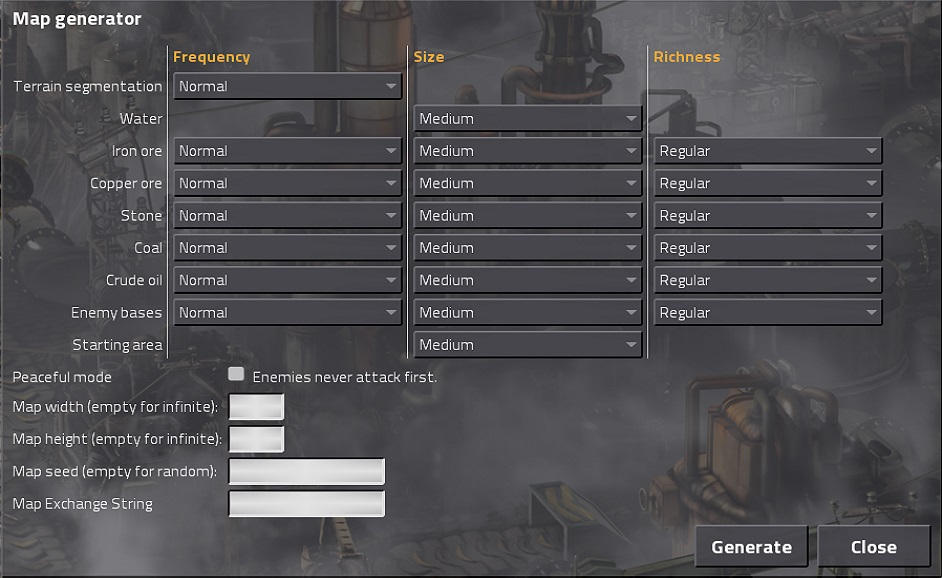
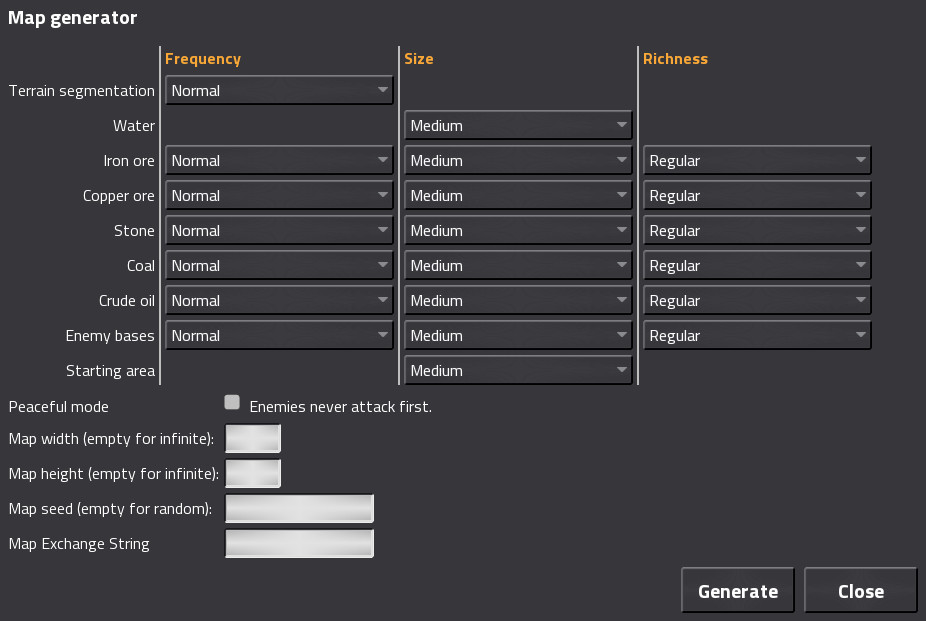
New gui pictures for page 02, re-wrote some stuff on the map generation and stuff

diff --git a/02-game-options-and-map-settings.html b/02-game-options-and-map-settings.html
@@ -3,119 +3,25 @@ layout: default
 title: Game options and map settings
 ---
 <h2>Options</h2>
-<p>Factorio has quite a few settings you can play around with to customize things how you want. Obviously there are multiple audio settings, and you can either play full screen or windowed, as well as multiple other graphical options. One of the main things you can customize though is the hotkeys, and there are a lot of them. The hotkey menu is a good thing to look at before you start playing so you know what certain buttons do and how to pull up certain windows, etc. However some of the key mappings aren't as apparent or can easily be over-looked in the hotkey menu and some of those are actually very important to enhance the game experience.</p>
+<p>Factorio has quite a few settings you can play around with to customize things how you want. There are multiple audio settings, and you can either play in a fullscreen or windowed mode. You can also customize all the hotkeys and shortcuts used in the game, its a fair idea to have a brief look over this menu before you start a game. Some of these key mappings won't quite make sense right away though, but over time you will learn how powerful some of them can be.</p>
 <div class="xtrainfo">
-  <p><a href="https://www.youtube.com/watch?v=bahM1UB7C08" target="_new">Here</a> is a quick video that goes over some of the lesser known key-bindings that are actually very useful to know</p></div>
+  <p>There is a <a href="https://www.youtube.com/watch?v=bahM1UB7C08" target="_new">tutorial</a> produced by a community member which goes over some of the more useful Hotkeys and Shortcuts</p></div>
  
-<p>Below is table of the main ones, but certainly not all of them.</p>
+<p>Below is an overview of the default keybindings in the game.</p>
 
-<table class="table1">
-  <colgroup>
-  <col width="57*">
-  </colgroup>
-  <colgroup>
-  <col width="26*">
-  </colgroup>
-  <colgroup>
-  <col width="14*">
-  <col width="110*">
-  <col width="48*">
-  </colgroup>
-  <tr>
-    <th colspan="2" width="33%"> <p>Basic</p></th>
-    <td width="6%">&nbsp;&nbsp;&nbsp;&nbsp;&nbsp;</td>
-    <th colspan="2" width="62%"> <p>Advanced</p></th>
-  </tr>
-  <tr>
-    <td width="30%"><p>Movement</p></td>
-    <td width="10%"><p><strong>W, A,  			S, D</strong></p></td>
-    <td width="6%"><p><br/>
-    </p></td>
-    <td width="43%"><p>Transfer all of an Item to Inventory</p></td>
-    <td width="19%"><p><strong>CTRL+LMB</strong></p></td>
-  </tr>
-  <tr>
-    <td width="22%"><p>Open  			Inventory</p></td>
-    <td width="10%"><p><strong>E</strong></p></td>
-    <td width="6%"><p><br/>
-    </p></td>
-    <td width="43%"><p>Fetch all Items into Inventory without opening  			entity</p></td>
-    <td width="19%"><p><strong>CTRL+LMB</strong></p></td>
-  </tr>
-  <tr>
-    <td width="22%"><p>Switch  			Weapons</p></td>
-    <td width="10%"><p><strong>Q</strong></p></td>
-    <td width="6%"><p><br/>
-    </p></td>
-    <td width="43%"><p>Transfer a Stack between Inventories</p></td>
-    <td width="19%"><p><strong>SHIFT+LMB</strong></p></td>
-  </tr>
-  <tr>
-    <td width="22%"><p>Pick up  			Items off Ground</p></td>
-    <td width="10%"><p><strong>F</strong></p></td>
-    <td width="6%"><p><br/>
-    </p></td>
-    <td width="43%"><p>Copy Selected Building Manufacturing</p></td>
-    <td width="19%"><p><strong>SHIFT+RMB</strong></p></td>
-  </tr>
-  <tr>
-    <td width="22%"><p>Rotate  			Item/Structure</p></td>
-    <td width="10%"><p><strong>R</strong></p></td>
-    <td width="6%"><p><br/>
-    </p></td>
-    <td width="43%"><p>Paste Copied Manufacturing Settings </p></td>
-    <td width="19%"><p><strong>SHIFT+LMB</strong></p></td>
-  </tr>
-  <tr>
-    <td width="22%"><p>Auto  			Target Enemies</p></td>
-    <td width="10%"><p><strong>Spacebar</strong></p></td>
-    <td width="6%"><p><br/>
-    </p></td>
-    <td width="43%"><p>Set Filter on Toolbelt</p></td>
-    <td width="19%"><p><strong>Middle  			Mouse Button</strong></p></td>
-  </tr>
-  <tr>
-    <td width="22%"><p>Shoot  			What Your Targeting</p></td>
-    <td width="10%"><p><strong>C</strong></p></td>
-    <td width="6%"><p><br/>
-    </p></td>
-    <td width="43%"><p><br/>
-    </p></td>
-    <td width="19%"><p><br/>
-    </p></td>
-  </tr>
-  <tr>
-    <td width="22%"><p>Show  			Extra Info</p></td>
-    <td width="10%"><p><strong>ALT</strong></p></td>
-    <td width="6%"><p><br/>
-    </p></td>
-    <td width="43%"><p><br/>
-    </p></td>
-    <td width="19%"><p><br/>
-    </p></td>
-  </tr>
-  <tr>
-    <td width="22%"><p>Open  			Technology Screen</p></td>
-    <td width="10%"><p><strong>T</strong></p></td>
-    <td width="6%"><p><br/>
-    </p></td>
-    <td width="43%"><p><br/>
-    </p></td>
-    <td width="19%"><p><br/>
-    </p></td>
-  </tr>
-</table>
+<div class="cont-center"><img src="img/hotkeys.jpg" width="962" height="1275" alt="Hotkeys" longdesc="img/hotkeys.jpg" /></div>
 
-<p>One last thing to note about the options menus is that you can enable experimental updates. This is actually recommended because the experimental builds are the latest ones and far more updated than the stable builds. The great thing about Factorio is even though the builds may be labeled as experimental, they rarely have any game breaking problems and are (at least in my experience) completely playable. Even if you enable this option, it will still give you the choice when a new update is out to download it or wait, so it doesn't just automatically install it without asking.</p>
+<p> There are a large amount of other options available in the game, such as graphical settings, audio configuration and other game settings.</p>
 
 <h2>Map Settings</h2>
-<p>I just want to touch on a couple of things about the Map Settings. The first thing to go over is the option to turn on <strong>Peaceful Mode</strong>. When you go to start a new game, you will be brought to the Map Settings menu where you can customize some things about the map before it generates.</p>
-<p>One of those settings is to turn on Peaceful Mode. It isn't really clear what that does initially, so I'll explain it here. Normally if you play with that setting turned off (it's off by default) then the enemies will attack you when you approach them or start firing on them, as well as send raiding parties to your base when your pollution hits their Spawners. However with Peaceful Mode on, they are entirely docile until you actually attack them. They will never attack your base without you going and attacking them first. Even if you run over and stand in a group of them, they won't attack you until you fire at them.</p>
+<p>When you go to start a new game, you will be brought to the Map generator menu, where you can customize different settings and parameters about the map before you start.</p>
+<p>One useful setting for beggining players is the <strong>Peaceful mode</strong> checkbox. The default setting is off, meaning the enemies in the game will aggresively attack your factory based on how much pollution you produce. When peaceful mode is enabled, they will not directly seek out to attack you, and will only become hostile if you attack them first. This setting is useful for learning the game for the first time, as it reduces the chance of a devastating attack while you're still learning the game</p>
 
 <div class="cont-center"><img src="img/1.jpg" width="942" height="578" alt="map-generator GUI" longdesc="img/1.jpg" /></div>
 
-<p>It can be good to turn this setting on if you are new and don't want to bother with the enemies, or if you just need some peace for doing a speed run or something.</p>
-<p>The other two things to go over quickly are the Starting Area and the Map Exchange String. I just want to point out that the Starting Area defines the area in which it is guaranteed to be enemy free from the start. So in other words, the larger you set it the more space you will have between you and the enemies. If you set really small, the enemies will be almost right on top of you, literally. 
-The next thing is the Map Exchange String. This is used to generate a copy of a map that already exists. So you can use it to have the same map as your friend if they give you the string for it, or you can use it to generate a duplicate map of one of your saves, etc. To be clear though, it is just the map itself, and doesn't include any structures or progress that may have been made. It is a fresh start from the beginning, but with the same map. It may not be exactly 100% the same though. Sometimes a few things change a bit, but for the most part it is the same. </p>
-<p>Now in terms of the actual settings like Frequency, Size, and Richness, there is a link below to the wiki page that explains it in great detail. I am not going to go over it here because it would make this section far too long and complicated.</p>
-<div class="xtrainfo">You can find all the info you need for how those settings work from <a href="http://www.factorioforums.com/wiki/index.php?title=World_generator">here</a></div>
+<p>Two other important options are the Starting Area, Map width and Map height. The Starting area size determines how much space around your spawn location in which the enemy bases will not spawn. Setting this to large is reccomended for new players, at it allows more breathing room before initial enemy attacks, and more space for early expansion.</p>
+<p>
+The map width and height determine the size of your generated map. By leaving these empty the world generated will be practically infinite in size. Some players enjoy the challenge of a limited map height or width, but mostly these are left blank.
+ </p>
+<p>The columns defining 'Frequency', 'Size' and 'Richness' are used to customize the way these resources spawn. Frequency determines the probability of a resource patch, Size determines its size, and Richness is used to calculate how many resources are in each patch. Note that setting enemy bases to 'None' will leave you unable to research all the technologies in the game, as they require alien artifacts, which can only be acquired through the death of a enemy spawner.</p>
+<div class="xtrainfo">There is additional information and deeper study on the map settings available  <a href="http://www.factorioforums.com/wiki/index.php?title=World_generator">on the Wiki</a>.</div>
